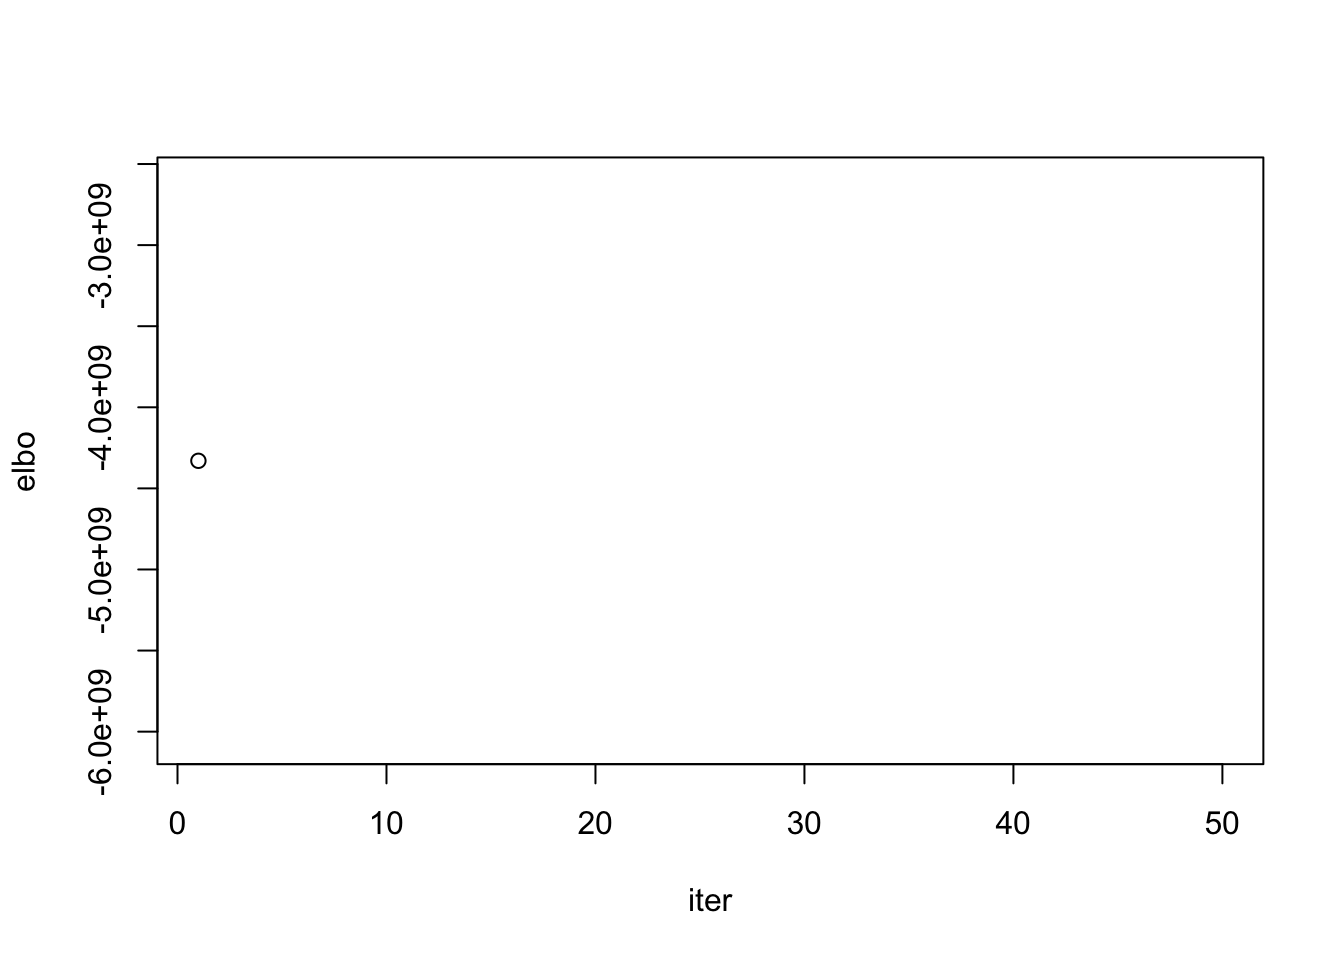
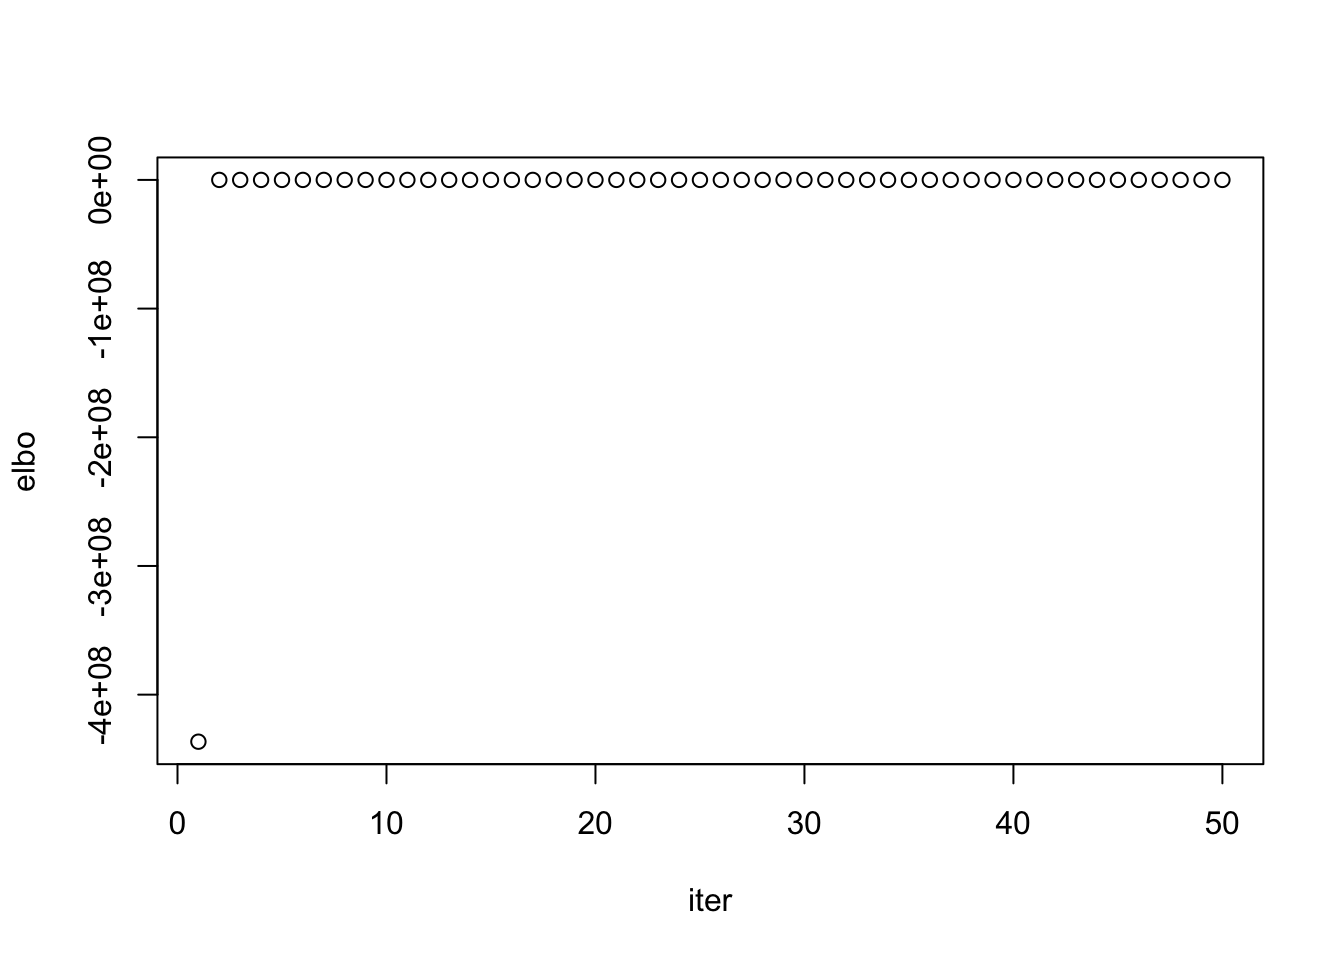
Build site.

diff --git a/docs/vi_poisson.html b/docs/vi_poisson.html
@@ -499,16 +499,16 @@ code/vi_poisson.R
 <div class="panel panel-default">
 <div class="panel-heading">
 <p class="panel-title">
-<a data-toggle="collapse" data-parent="#workflowr-checks" href="#strongRepositoryversionstrongahrefhttpsgithubcomyunqiyang0215survivalsusietree656751d82ce64c62cba7433839af375e4e99c4ebtargetblank656751da"> <span class="glyphicon glyphicon-ok text-success" aria-hidden="true"></span> <strong>Repository version:</strong> <a href="https://github.com/yunqiyang0215/survival-susie/tree/656751d82ce64c62cba7433839af375e4e99c4eb" target="_blank">656751d</a> </a>
+<a data-toggle="collapse" data-parent="#workflowr-checks" href="#strongRepositoryversionstrongahrefhttpsgithubcomyunqiyang0215survivalsusietree34e61d031af6866b928f5fba7c413f5791694639targetblank34e61d0a"> <span class="glyphicon glyphicon-ok text-success" aria-hidden="true"></span> <strong>Repository version:</strong> <a href="https://github.com/yunqiyang0215/survival-susie/tree/34e61d031af6866b928f5fba7c413f5791694639" target="_blank">34e61d0</a> </a>
 </p>
 </div>
[2 lines of base64/hex data omitted]
 <div class="panel-body">
 <p>
 Great! You are using Git for version control. Tracking code development and connecting the code version to the results is critical for reproducibility.
 </p>
 <p>
-The results in this page were generated with repository version <a href="https://github.com/yunqiyang0215/survival-susie/tree/656751d82ce64c62cba7433839af375e4e99c4eb" target="_blank">656751d</a>. See the <em>Past versions</em> tab to see a history of the changes made to the R Markdown and HTML files.
+The results in this page were generated with repository version <a href="https://github.com/yunqiyang0215/survival-susie/tree/34e61d031af6866b928f5fba7c413f5791694639" target="_blank">34e61d0</a>. See the <em>Past versions</em> tab to see a history of the changes made to the R Markdown and HTML files.
 </p>
 <p>
 Note that you need to be careful to ensure that all relevant files for the analysis have been committed to Git prior to generating the results (you can use <code>wflow_publish</code> or <code>wflow_git_commit</code>). workflowr only checks the R Markdown file, but you know if there are other scripts or data files that it depends on. Below is the status of the Git repository when the results were generated:
@@ -576,6 +576,40 @@ Message
 </tr>
 </thead>
 <tbody>
+<tr>
+<td>
+Rmd
+</td>
+<td>
+<a href="https://github.com/yunqiyang0215/survival-susie/blob/34e61d031af6866b928f5fba7c413f5791694639/analysis/vi_poisson.Rmd" target="_blank">34e61d0</a>
+</td>
+<td>
+yunqiyang0215
+</td>
+<td>
+2023-05-08
+</td>
+<td>
+wflow_publish("analysis/vi_poisson.Rmd")
+</td>
+</tr>
+<tr>
+<td>
+html
+</td>
+<td>
+<a href="https://rawcdn.githack.com/yunqiyang0215/survival-susie/8f090c15c5fc2f7e1513d0b1bbe7866ce0624c8d/docs/vi_poisson.html" target="_blank">8f090c1</a>
+</td>
+<td>
+yunqiyang0215
+</td>
+<td>
+2023-05-08
+</td>
+<td>
+Build site.
+</td>
+</tr>
 <tr>
 <td>
 Rmd
@@ -1034,7 +1068,7 @@ yunqiyang0215
 </div>
 <div id="simulation-2" class="section level1">
 <h1>Simulation 2</h1>
-<pre class="r"><code>set.seed(1)
+<pre class="r"><code>set.seed(3)
 n = 200
 p = 5
 ss = rep(1, n)
@@ -1045,12 +1079,12 @@ for (i in 1:p){
 
 dat = sim.data(n, X, ss, sigma2 = 1, prior.prob = rep(1/p, p))
 dat$b.vec
-#          [,1]
-# [1,] 1.841107
-# [2,] 0.000000
-# [3,] 0.000000
-# [4,] 0.000000
-# [5,] 0.000000</code></pre>
+#            [,1]
+# [1,]  0.0000000
+# [2,]  0.0000000
+# [3,]  0.0000000
+# [4,] -0.9728448
+# [5,]  0.0000000</code></pre>
 <pre class="r"><code># initializations 
 m.vec = rep(1, p)
 v2.vec = rep(1, p)
@@ -1064,36 +1098,36 @@ result &lt;- update_q(X, dat$y, ss, m.vec, v2.vec, sigma2 = 1, pi, alpha, maxite
 head(result$alpha)
 head(result$m.vec)
 head(result$v2.vec)
-#      [,1] [,2] [,3] [,4] [,5]
-# [1,]  0.2  0.2  0.2  0.2  0.2
-# [2,]  1.0  0.0  0.0  0.0  0.0
-# [3,]  1.0  0.0  0.0  0.0  0.0
-# [4,]  1.0  0.0  0.0  0.0  0.0
-# [5,]  1.0  0.0  0.0  0.0  0.0
-# [6,]  1.0  0.0  0.0  0.0  0.0
-#          [,1]      [,2]       [,3]      [,4]       [,5]
-# [1,] 1.000000 1.0000000 1.00000000 1.0000000  1.0000000
-# [2,] 1.838093 0.7416868 0.06057716 0.6263276 -0.3350009
-# [3,] 1.838572 0.7431105 0.06091512 0.6276280 -0.3356989
-# [4,] 1.838572 0.7431114 0.06062458 0.6276286 -0.3356986
-# [5,] 1.838572 0.7431110 0.06087440 0.6276284 -0.3356985
-# [6,] 1.838572 0.7431110 0.06065957 0.6276283 -0.3356985
-#              [,1]        [,2]        [,3]        [,4]        [,5]
-# [1,] 2.7182818285 2.718281828 2.718281828 2.718281828 2.718281828
-# [2,] 0.0003700796 0.002723958 0.004288387 0.002944679 0.003427589
-# [3,] 0.0003699501 0.002723584 0.004288439 0.002945597 0.003546685
-# [4,] 0.0003699501 0.002723583 0.004288490 0.002945598 0.003546685
-# [5,] 0.0003699501 0.002723583 0.004288542 0.002945598 0.003546685
-# [6,] 0.0003699501 0.002723583 0.004288592 0.002945598 0.003546685</code></pre>
+#               [,1]          [,2]          [,3] [,4]          [,5]
+# [1,]  2.000000e-01  2.000000e-01  2.000000e-01  0.2  2.000000e-01
+# [2,] 2.553238e-100 4.927759e-100 3.386268e-100  1.0 8.179769e-100
+# [3,] 2.537648e-100 4.897846e-100 3.365642e-100  1.0 8.130362e-100
+# [4,] 2.537600e-100 4.897753e-100 3.365577e-100  1.0 8.130207e-100
+# [5,] 2.537611e-100 4.897774e-100 3.365592e-100  1.0 8.130242e-100
+# [6,] 2.537608e-100 4.897769e-100 3.365588e-100  1.0 8.130234e-100
+#             [,1]        [,2]        [,3]      [,4]      [,5]
+# [1,]  1.00000000  1.00000000  1.00000000  1.000000 1.0000000
+# [2,] -0.05597706 -0.09768037 -0.07726317 -1.005510 0.1202201
+# [3,] -0.05585003 -0.09769540 -0.07727092 -1.005529 0.1202310
+# [4,] -0.05591947 -0.09768510 -0.07726589 -1.005525 0.1202238
+# [5,] -0.05588152 -0.09769217 -0.07726916 -1.005526 0.1202286
+# [6,] -0.05590226 -0.09768731 -0.07726704 -1.005526 0.1202254
+#             [,1]        [,2]        [,3]        [,4]        [,5]
+# [1,] 2.718281828 2.718281828 2.718281828 2.718281828 2.718281828
+# [2,] 0.005166847 0.004741290 0.004843992 0.001301868 0.004794637
+# [3,] 0.005166872 0.004741291 0.004843993 0.001301869 0.004794646
+# [4,] 0.005166897 0.004741292 0.004843995 0.001301868 0.004794654
+# [5,] 0.005166921 0.004741293 0.004843997 0.001301868 0.004794663
+# [6,] 0.005166946 0.004741295 0.004843998 0.001301868 0.004794671</code></pre>
 <pre class="r"><code>tail(result$alpha, n = 1)
 tail(result$m.vec, n = 1)
 tail(result$v2.vec, n = 1)
-#       [,1] [,2] [,3] [,4] [,5]
-# [20,]    1    0    0    0    0
-#           [,1]     [,2]      [,3]      [,4]       [,5]
-# [20,] 1.838572 0.743111 0.0607468 0.6276286 -0.3356985
-#               [,1]        [,2]        [,3]        [,4]        [,5]
-# [20,] 0.0003699501 0.002723583 0.004289286 0.002945614 0.003546685</code></pre>
+#                [,1]          [,2]          [,3] [,4]          [,5]
+# [20,] 2.537608e-100 4.897769e-100 3.365588e-100    1 8.130234e-100
+#              [,1]        [,2]        [,3]      [,4]      [,5]
+# [20,] -0.05589784 -0.09768918 -0.07726762 -1.005526 0.1202261
+#              [,1]        [,2]        [,3]        [,4]        [,5]
+# [20,] 0.005167553 0.004741317 0.004844034 0.001301868 0.004794849</code></pre>
 <pre class="r"><code>plot(result$elbo, xlab = &quot;iter&quot;, ylab = &quot;elbo&quot;)</code></pre>
 <p><img src="figure/vi_poisson.Rmd/unnamed-chunk-9-1.png" width="672" style="display: block; margin: auto;" /></p>
 <p>
@@ -1118,6 +1152,17 @@ Date
 </tr>
 </thead>
 <tbody>
+<tr>
+<td>
+<a href="https://github.com/yunqiyang0215/survival-susie/blob/8f090c15c5fc2f7e1513d0b1bbe7866ce0624c8d/docs/figure/vi_poisson.Rmd/unnamed-chunk-9-1.png" target="_blank">8f090c1</a>
+</td>
+<td>
+yunqiyang0215
+</td>
+<td>
+2023-05-08
+</td>
+</tr>
 <tr>
 <td>
 <a href="https://github.com/yunqiyang0215/survival-susie/blob/0d942f777d8210cd4204aa0cfa0141477d87d116/docs/figure/vi_poisson.Rmd/unnamed-chunk-9-1.png" target="_blank">0d942f7</a>
@@ -1158,7 +1203,7 @@ yunqiyang0215
 </div>
 <div id="simulation-3" class="section level1">
 <h1>Simulation 3</h1>
-<pre class="r"><code>set.seed(1)
+<pre class="r"><code>set.seed(2)
 n = 2e3
 p = 5
 ss = rep(1, n)
@@ -1169,12 +1214,12 @@ for (i in 1:p){
 
 dat = sim.data(n, X, ss, sigma2 = 1, prior.prob = rep(1/p, p))
 dat$b.vec
-#           [,1]
-# [1,]  0.000000
-# [2,]  0.000000
-# [3,]  0.000000
-# [4,]  0.000000
-# [5,] -1.035396</code></pre>
+#         [,1]
+# [1,] 0.83707
+# [2,] 0.00000
+# [3,] 0.00000
+# [4,] 0.00000
+# [5,] 0.00000</code></pre>
 <pre class="r"><code># initializations 
 m.vec = rep(1, p)
 v2.vec = rep(1, p)
@@ -1187,34 +1232,34 @@ head(result$m.vec)
 head(result$v2.vec)
 #      [,1] [,2] [,3] [,4] [,5]
 # [1,]  0.2  0.2  0.2  0.2  0.2
-# [2,]  0.0  0.0  0.0  0.0  1.0
-# [3,]  0.0  0.0  0.0  0.0  1.0
-# [4,]  0.0  0.0  0.0  0.0  1.0
-# [5,]  0.0  0.0  0.0  0.0  1.0
-# [6,]  0.0  0.0  0.0  0.0  1.0
-#             [,1]         [,2]       [,3]        [,4]      [,5]
-# [1,]  1.00000000  1.000000000 1.00000000  1.00000000  1.000000
-# [2,] -0.04702891 -0.007953585 0.09369117 -0.06988947 -1.038922
-# [3,] -0.04703073 -0.007953831 0.09369336 -0.06989387 -1.038986
-# [4,] -0.04703129 -0.007953908 0.09369419 -0.06989532 -1.038986
-# [5,] -0.04703147 -0.007953933 0.09369451 -0.06989579 -1.038986
-# [6,] -0.04703173 -0.007953971 0.09369462 -0.06989656 -1.038986
+# [2,]  1.0  0.0  0.0  0.0  0.0
+# [3,]  1.0  0.0  0.0  0.0  0.0
+# [4,]  1.0  0.0  0.0  0.0  0.0
+# [5,]  1.0  0.0  0.0  0.0  0.0
+# [6,]  1.0  0.0  0.0  0.0  0.0
+#           [,1]       [,2]       [,3]        [,4]       [,5]
+# [1,] 1.0000000 1.00000000 1.00000000  1.00000000 1.00000000
+# [2,] 0.8288838 0.05909036 0.04020810 -0.02647225 0.03700226
+# [3,] 0.8288264 0.05908217 0.04020271 -0.02646775 0.03699685
+# [4,] 0.8288639 0.05907935 0.04020059 -0.02646622 0.03699493
+# [5,] 0.8288394 0.05907838 0.04019975 -0.02646570 0.03699425
+# [6,] 0.8288554 0.05907805 0.04019942 -0.02646482 0.03699401
 #              [,1]         [,2]         [,3]         [,4]         [,5]
 # [1,] 2.7182818285 2.7182818285 2.7182818285 2.7182818285 2.7182818285
-# [2,] 0.0004619126 0.0004665062 0.0005134117 0.0004766803 0.0001666199
-# [3,] 0.0004619126 0.0004665062 0.0005134117 0.0004766802 0.0001432499
-# [4,] 0.0004619125 0.0004665062 0.0005134117 0.0004766801 0.0001432499
-# [5,] 0.0004619125 0.0004665062 0.0005134117 0.0004766799 0.0001432499
-# [6,] 0.0004619123 0.0004665062 0.0005134117 0.0004766792 0.0001432499</code></pre>
+# [2,] 0.0001933018 0.0004877523 0.0005285179 0.0004837930 0.0004959862
+# [3,] 0.0001933018 0.0004877522 0.0005285178 0.0004837931 0.0004959862
+# [4,] 0.0001933018 0.0004877522 0.0005285177 0.0004837931 0.0004959862
+# [5,] 0.0001933019 0.0004877522 0.0005285176 0.0004837932 0.0004959861
+# [6,] 0.0001933019 0.0004877522 0.0005285175 0.0004837936 0.0004959861</code></pre>
 <pre class="r"><code>tail(result$alpha, n = 1)
 tail(result$m.vec, n = 1)
 tail(result$v2.vec, n = 1)
 #       [,1] [,2] [,3] [,4] [,5]
-# [50,]    0    0    0    0    1
-#              [,1]         [,2]       [,3]       [,4]      [,5]
-# [50,] -0.04703172 -0.007953924 0.09369471 -0.0698953 -1.038986
-#              [,1]         [,2]         [,3]         [,4]         [,5]
-# [50,] 0.000461907 0.0004665066 0.0005134121 0.0004766583 0.0001432499</code></pre>
+# [50,]    1    0    0    0    0
+#            [,1]       [,2]     [,3]        [,4]       [,5]
+# [50,] 0.8288493 0.05907813 0.040199 -0.02646531 0.03699369
+#               [,1]         [,2]         [,3]         [,4]         [,5]
+# [50,] 0.0001933021 0.0004877479 0.0005285019 0.0004838045 0.0004959819</code></pre>
 <pre class="r"><code>plot(result$elbo, xlab = &quot;iter&quot;, ylab = &quot;elbo&quot;)</code></pre>
 <p><img src="figure/vi_poisson.Rmd/unnamed-chunk-13-1.png" width="672" style="display: block; margin: auto;" /></p>
 <p>
@@ -1239,6 +1284,17 @@ Date
 </tr>
 </thead>
 <tbody>
+<tr>
+<td>
+<a href="https://github.com/yunqiyang0215/survival-susie/blob/8f090c15c5fc2f7e1513d0b1bbe7866ce0624c8d/docs/figure/vi_poisson.Rmd/unnamed-chunk-13-1.png" target="_blank">8f090c1</a>
+</td>
+<td>
+yunqiyang0215
+</td>
+<td>
+2023-05-08
+</td>
+</tr>
 <tr>
 <td>
 <a href="https://github.com/yunqiyang0215/survival-susie/blob/0d942f777d8210cd4204aa0cfa0141477d87d116/docs/figure/vi_poisson.Rmd/unnamed-chunk-13-1.png" target="_blank">0d942f7</a>
